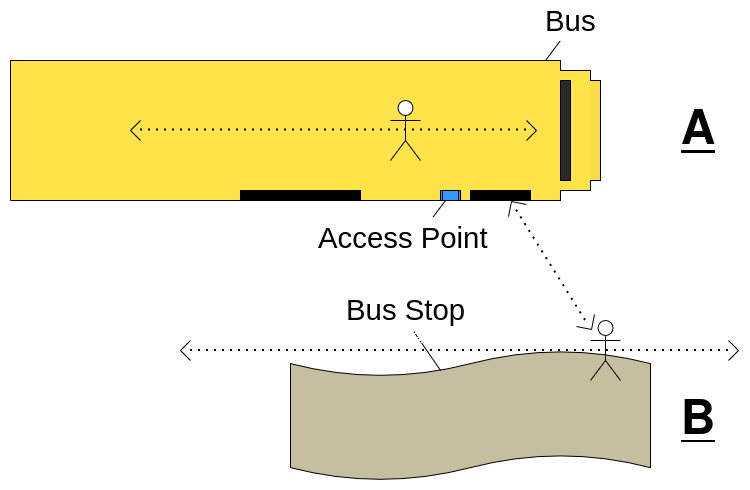
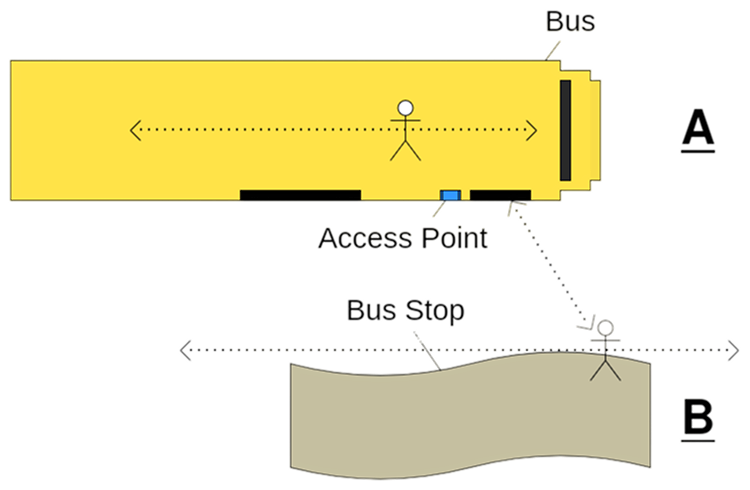
little details missing

diff --git a/docs/eucnc/presentation/presentation.md b/docs/eucnc/presentation/presentation.md
@@ -4,13 +4,15 @@ subtitle: Non-Intrusive Public Transport Monitoring
 author: "\\underline{André Ribeiro}, Guilherme Matos, Julio Corona, Mário Antunes, Diogo Gomes"
 aspectratio: 169
 institute: Instituto de Telecomunicações, Universidade de Aveiro, Portugal
-date: 03/06/206 - EuCNC26
+date: 03/06/2026 - EuCNC26
 section-titles: false
 # toc: true
 # toc-title: "Table of Contents"
 header-includes:
-  - \usetheme[sectionpage=none,numbering=fraction,progressbar=frametitle]{metropolis}
+  - \usetheme[sectionpage=none,numbering=fraction,progressbar=frametitle]{moloch}
   - \setbeamertemplate{navigation symbols}{}
+  - \usepackage[semibold,light]{FiraSans}
+  - \usepackage{FiraMono}
   - \usepackage{longtable,booktabs}
   - \usepackage[table]{xcolor}
   - \usepackage{etoolbox}
@@ -27,7 +29,7 @@ header-includes:
 
 The **inMotion** project aims to bring real-time intelligence to public transport operations.
 
-One of its core goals: understand **how passengers move** through the network: who boards, who alights, and where.
+One of its core goals, understand **how passengers move** through the network: who boards, who alights, and where.
 
 
 Today we present a component of that vision: passenger movement classification using only Wi-Fi signals.
@@ -36,8 +38,8 @@ Today we present a component of that vision: passenger movement classification u
 :::: {.column width="44%"}
 
 \centering
-\includegraphics[width=0.85\linewidth]{./images/experimental_setup.png}
-\small\color{gray}Experimental prototype at Instituto de Telecomunicações
+\includegraphics[width=0.85\linewidth]{./images/smart_bus.png}
+\small\color{gray}Smart bus concept
 
 ::::
 :::
@@ -55,20 +57,41 @@ Today we present a component of that vision: passenger movement classification u
 
 ## The Passenger Counting Gap
 
+::: columns
+:::: {.column width="48%"}
 
-**What operators need:**
+**Without granular passenger data:**
 
-- Accurate passenger flow data for scheduling, fleet sizing, and route planning
-- Coverage across the entire fleet, not just a few instrumented vehicles
-- Low deployment and maintenance cost
+- Routes designed on rough estimates, not actual demand
+- Buses run near-empty on some segments, overcrowded on others
+- Operators cannot justify service adjustments to funders
+- Fleet sizing based on guesswork, not occupancy
+
+::::
+:::: {.column width="48%"}
+
+**The potential of data-driven optimization:**
+
+| Metric | Improvement |
+|--------|------------|
+| Route costs | $\downarrow$ **30–40\%** |
+| Fuel consumption | $\downarrow$ **10–20\%** |
+| Routes needed | $\downarrow$ **29–42\%** |
+
+\vspace{0.3em}
+\footnotesize\color{gray}Sources: UPS ORION (30M liters fuel/year saved); Finmile/Shein/TikTok Shop deployments; industry route optimization benchmarks
+
+::::
+:::
 
 ::: notes
 
 - Accurate passenger counting is fundamental for public transport operations. Without it, operators are flying blind.
 - Traditional systems, infrared beams, pressure mats, cameras, work reasonably well in labs. In the real world, with crowds, occlusion, and dirt, their accuracy drops dramatically — 98% claimed becomes 53% in practice, as Pronello and Ruiz documented.
-- Video-based counting is more robust but introduces privacy issues and still requires cameras on every door.
-- The core problem: coverage. You cannot instrument an entire fleet with these technologies at a reasonable cost.
-- Wi-Fi, however, is already on many buses. The infrastructure is there.
+- But beyond the technology problem, there is a financial case. Why does accurate counting matter? Because data is what enables route optimization.
+- Look at the logistics industry: UPS saved 30 million liters of fuel per year just by optimizing routes with their ORION system. Shein and TikTok Shop cut delivery costs by 30–40% using AI route planning.
+- The same principle applies to public transport. If you know exactly where passengers board and alight, you can right-size vehicles, adjust frequencies, and eliminate empty runs. That is the economic motivation behind this work.
+- Wi-Fi is already on many buses. The infrastructure is there. We just need to extract the signal.
 
 :::
 
@@ -254,7 +277,7 @@ Uses existing Wi-Fi associations passively
 :::: {.column width="55%"}
 
 \centering
-\includegraphics[width=\linewidth]{./images/rssi_mean_trajectory_per_class.pdf}
+\includegraphics[width=\linewidth]{./images/rssi_mean_trajectory_per_class_1.pdf}
 \small\color{gray}Mean RSSI trajectory per class over 10 seconds (± 1 std)
 
 ::::
@@ -291,7 +314,7 @@ These contrasting trends are the foundation of the classification.
 :::: {.column width="55%"}
 
 \centering
-\includegraphics[width=\linewidth]{./images/tsne_visualization.pdf}
+\includegraphics[width=\linewidth]{./images/tsne_visualization_1.pdf}
 \small\color{gray}t-SNE projection of the 10-dimensional RSSI feature space
 
 ::::
@@ -369,7 +392,7 @@ These contrasting trends are the foundation of the classification.
 :::: {.column width="50%"}
 
 \centering
-\includegraphics[width=\linewidth]{./images/mcc_variability.pdf}
+\includegraphics[width=\linewidth]{./images/mcc_variability_1.pdf}
 \small\color{gray}MCC variability across three random seeds (combined dataset)
 
 ::::
@@ -377,7 +400,7 @@ These contrasting trends are the foundation of the classification.
 
 | Classifier       | Combined  | Isolated  | Noisy     |
 | ---------------- | --------- | --------- | --------- |
-| Gaussian Process | **0.756** | 0.414     | 0.755     |
+| GP | **0.756** | 0.414     | 0.755     |
 | SVC (RBF)        | 0.755     | 0.825     | 0.754     |
 | CatBoost         | 0.746     | 0.782     | **0.770** |
 | KNN (k=5)        | 0.692     | **0.907** | 0.704     |
@@ -404,14 +427,14 @@ These contrasting trends are the foundation of the classification.
 ## Gaussian Process on Combined Dataset
 
 ::: columns
-:::: {.column width="54%"}
+:::: {.column width="50%"}
 
 \centering
-\includegraphics[width=\linewidth]{./images/confusion_matrix_GaussianProcess.pdf}
+\includegraphics[width=\linewidth]{./images/confusion_matrix_GaussianProcess_1.pdf}
 \small\color{gray}Normalized confusion matrix, Gaussian Process
 
 ::::
-:::: {.column width="42%"}
+:::: {.column width="50%"}
 
 \small
 | Class | Precision | Recall | F1 |
@@ -491,7 +514,7 @@ Per-class F1 above 0.77 with interference. Ensemble methods handle noise best.
 :::: {.column width="50%"}
 
 \centering
-\includegraphics[width=\linewidth]{./images/mean_feature_importance.pdf}
+\includegraphics[width=\linewidth]{./images/mean_feature_importance_1.pdf}
 \small\color{gray}Mean feature importance across interpretable classifiers (min-max normalized)
 
 ::::